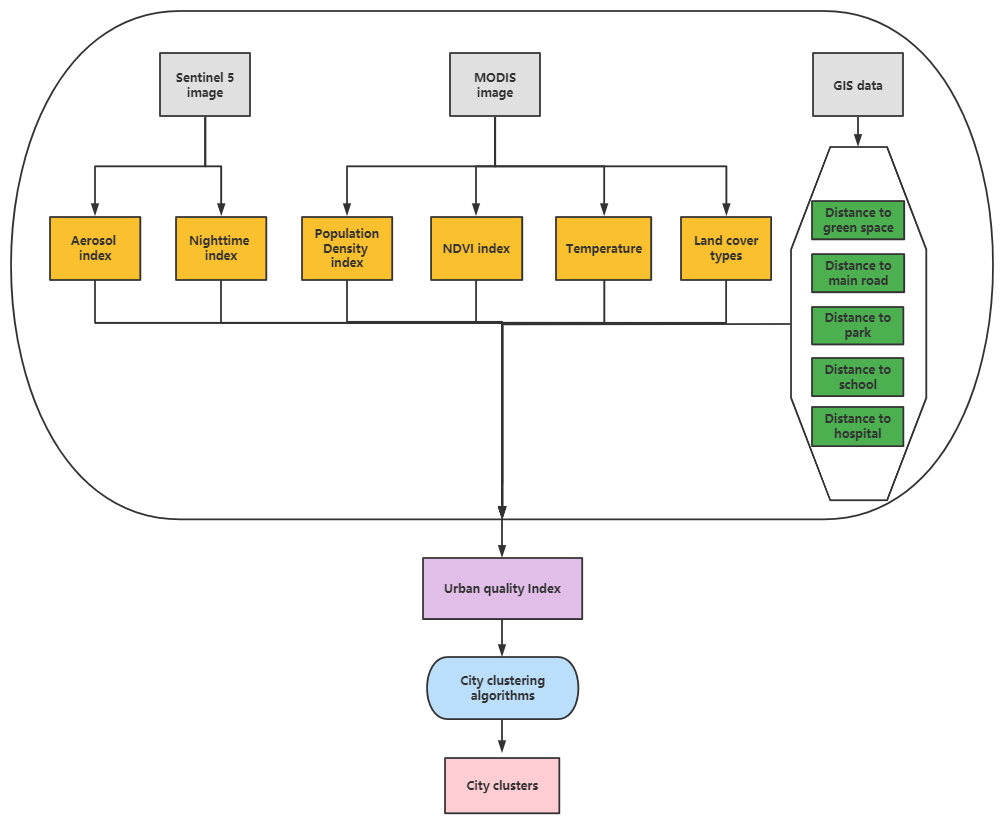
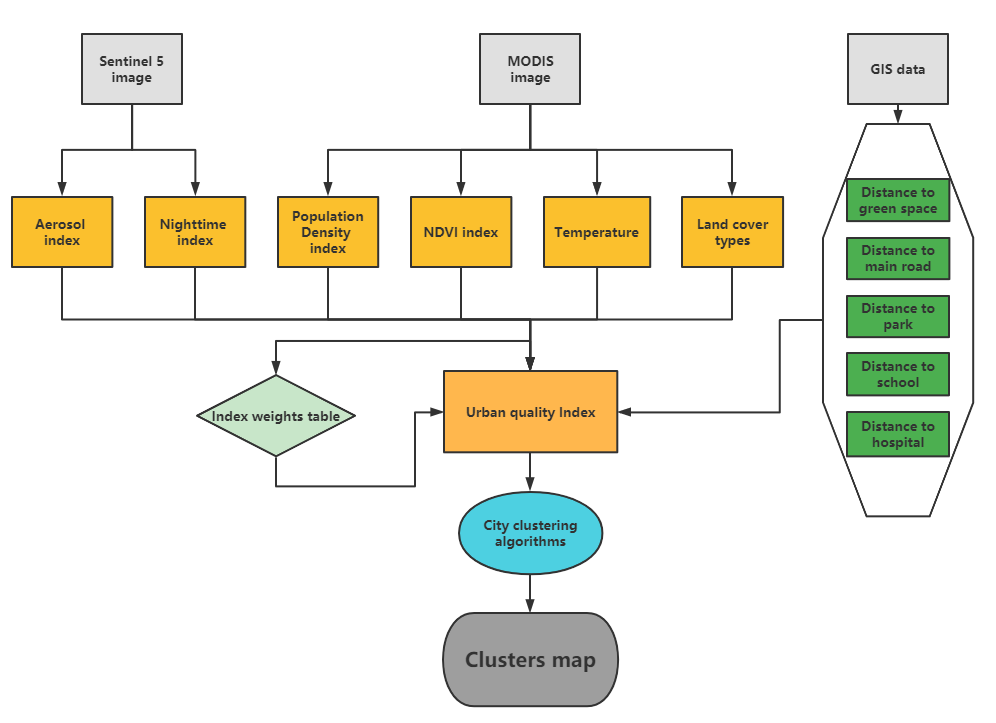
jesse-update-approach

diff --git a/index.html b/index.html
@@ -32,7 +32,7 @@
     <script src="libs/tile-view/tile-view.js"></script>
     <link href="libs/panelset/panelset.css" rel="stylesheet" />
     <script src="libs/panelset/panelset.js"></script>
-    <script type="application/json" id="xaringanExtra-editable-docid">{"id":"xb9d130d3bec424083d29e1194106a84","expires":1}</script>
+    <script type="application/json" id="xaringanExtra-editable-docid">{"id":"af1458bae2a1479bab2555675aa5896f","expires":1}</script>
     <script src="libs/himalaya/himalaya.js"></script>
     <link href="libs/editable/editable.css" rel="stylesheet" />
     <script src="libs/editable/editable.js"></script>
@@ -74,7 +74,7 @@ background-position: center
 
 ### An analysis of urban structuring and administrative division adjustments using remotely sensed data
 
-<svg aria-hidden="true" role="img" viewBox="0 0 512 512" style="height:1em;width:1em;vertical-align:-0.125em;margin-left:auto;margin-right:auto;font-size:inherit;fill:#562457;overflow:visible;position:relative;"><path d="M16.1 260.2c-22.6 12.9-20.5 47.3 3.6 57.3L160 376V479.3c0 18.1 14.6 32.7 32.7 32.7c9.7 0 18.9-4.3 25.1-11.8l62-74.3 123.9 51.6c18.9 7.9 40.8-4.5 43.9-24.7l64-416c1.9-12.1-3.4-24.3-13.5-31.2s-23.3-7.5-34-1.4l-448 256zm52.1 25.5L409.7 90.6 190.1 336l1.2 1L68.2 285.7zM403.3 425.4L236.7 355.9 450.8 116.6 403.3 425.4z"/></svg> [stnvvrt@ucl.ac.uk](mailto:stnvvrt@ucl.ac.uk)
+<svg aria-hidden="true" role="img" viewBox="0 0 512 512" style="height:1em;width:1em;vertical-align:-0.125em;margin-left:auto;margin-right:auto;font-size:inherit;fill:#562457;overflow:visible;position:relative;"><path d="M501.6 4.186c-7.594-5.156-17.41-5.594-25.44-1.063L12.12 267.1C4.184 271.7-.5037 280.3 .0431 289.4c.5469 9.125 6.234 17.16 14.66 20.69l153.3 64.38v113.5c0 8.781 4.797 16.84 12.5 21.06C184.1 511 188 512 191.1 512c4.516 0 9.038-1.281 12.99-3.812l111.2-71.46l98.56 41.4c2.984 1.25 6.141 1.875 9.297 1.875c4.078 0 8.141-1.031 11.78-3.094c6.453-3.625 10.88-10.06 11.95-17.38l64-432C513.1 18.44 509.1 9.373 501.6 4.186zM369.3 119.2l-187.1 208.9L78.23 284.7L369.3 119.2zM215.1 444v-49.36l46.45 19.51L215.1 444zM404.8 421.9l-176.6-74.19l224.6-249.5L404.8 421.9z"/></svg> [stnvvrt@ucl.ac.uk](mailto:stnvvrt@ucl.ac.uk)
 <svg aria-hidden="true" role="img" viewBox="0 0 496 512" style="height:1em;width:0.97em;vertical-align:-0.125em;margin-left:auto;margin-right:auto;font-size:inherit;fill:#562457;overflow:visible;position:relative;"><path d="M165.9 397.4c0 2-2.3 3.6-5.2 3.6-3.3.3-5.6-1.3-5.6-3.6 0-2 2.3-3.6 5.2-3.6 3-.3 5.6 1.3 5.6 3.6zm-31.1-4.5c-.7 2 1.3 4.3 4.3 4.9 2.6 1 5.6 0 6.2-2s-1.3-4.3-4.3-5.2c-2.6-.7-5.5.3-6.2 2.3zm44.2-1.7c-2.9.7-4.9 2.6-4.6 4.9.3 2 2.9 3.3 5.9 2.6 2.9-.7 4.9-2.6 4.6-4.6-.3-1.9-3-3.2-5.9-2.9zM244.8 8C106.1 8 0 113.3 0 252c0 110.9 69.8 205.8 169.5 239.2 12.8 2.3 17.3-5.6 17.3-12.1 0-6.2-.3-40.4-.3-61.4 0 0-70 15-84.7-29.8 0 0-11.4-29.1-27.8-36.6 0 0-22.9-15.7 1.6-15.4 0 0 24.9 2 38.6 25.8 21.9 38.6 58.6 27.5 72.9 20.9 2.3-16 8.8-27.1 16-33.7-55.9-6.2-112.3-14.3-112.3-110.5 0-27.5 7.6-41.3 23.6-58.9-2.6-6.5-11.1-33.3 2.6-67.9 20.9-6.5 69 27 69 27 20-5.6 41.5-8.5 62.8-8.5s42.8 2.9 62.8 8.5c0 0 48.1-33.6 69-27 13.7 34.7 5.2 61.4 2.6 67.9 16 17.7 25.8 31.5 25.8 58.9 0 96.5-58.9 104.2-114.8 110.5 9.2 7.9 17 22.9 17 46.4 0 33.7-.3 75.4-.3 83.6 0 6.5 4.6 14.4 17.3 12.1C428.2 457.8 496 362.9 496 252 496 113.3 383.5 8 244.8 8zM97.2 352.9c-1.3 1-1 3.3.7 5.2 1.6 1.6 3.9 2.3 5.2 1 1.3-1 1-3.3-.7-5.2-1.6-1.6-3.9-2.3-5.2-1zm-10.8-8.1c-.7 1.3.3 2.9 2.3 3.9 1.6 1 3.6.7 4.3-.7.7-1.3-.3-2.9-2.3-3.9-2-.6-3.6-.3-4.3.7zm32.4 35.6c-1.6 1.3-1 4.3 1.3 6.2 2.3 2.3 5.2 2.6 6.5 1 1.3-1.3.7-4.3-1.3-6.2-2.2-2.3-5.2-2.6-6.5-1zm-11.4-14.7c-1.6 1-1.6 3.6 0 5.9 1.6 2.3 4.3 3.3 5.6 2.3 1.6-1.3 1.6-3.9 0-6.2-1.4-2.3-4-3.3-5.6-2z"/></svg> [vtesniere](https://github.com/vtesniere)
 <svg aria-hidden="true" role="img" viewBox="0 0 384 512" style="height:1em;width:0.75em;vertical-align:-0.125em;margin-left:auto;margin-right:auto;font-size:inherit;fill:#562457;overflow:visible;position:relative;"><path d="M215.7 499.2C267 435 384 279.4 384 192C384 86 298 0 192 0S0 86 0 192c0 87.4 117 243 168.3 307.2c12.3 15.3 35.1 15.3 47.4 0zM192 256c-35.3 0-64-28.7-64-64s28.7-64 64-64s64 28.7 64 64s-28.7 64-64 64z"/></svg> [Department of Geography](https://www.geog.ucl.ac.uk/) .my-style[&amp;] [Centre for Advanced Spatial Analysis, UCL](https://www.ucl.ac.uk/bartlett/casa/)
 
@@ -132,16 +132,16 @@ econ:
 ---
 
 # Approach
-
+### data
 .milieu3[
 
 &lt;table&gt;
  &lt;thead&gt;
   &lt;tr&gt;
-   &lt;th style="text-align:left;"&gt; Urban_quality_of_life_indicators &lt;/th&gt;
-   &lt;th style="text-align:left;"&gt; What_data_is_shown &lt;/th&gt;
+   &lt;th style="text-align:left;"&gt; Reference to UQoL indicators &lt;/th&gt;
+   &lt;th style="text-align:left;"&gt; What data &lt;/th&gt;
    &lt;th style="text-align:left;"&gt; Sensors &lt;/th&gt;
-   &lt;th style="text-align:left;"&gt; Spatial_resolution &lt;/th&gt;
+   &lt;th style="text-align:left;"&gt; Spatial resolution &lt;/th&gt;
   &lt;/tr&gt;
  &lt;/thead&gt;
 &lt;tbody&gt;
@@ -182,9 +182,8 @@ Sentinel 5 &lt;/td&gt;
 &lt;/table&gt;
 ]
 ---
-### model
-&lt;img src="images/model.png"
-     height="520px"/&gt;
+# Workflow
+&lt;img src="images/model.png"/&gt;
 ---
 class: inverse, center, middle
 
